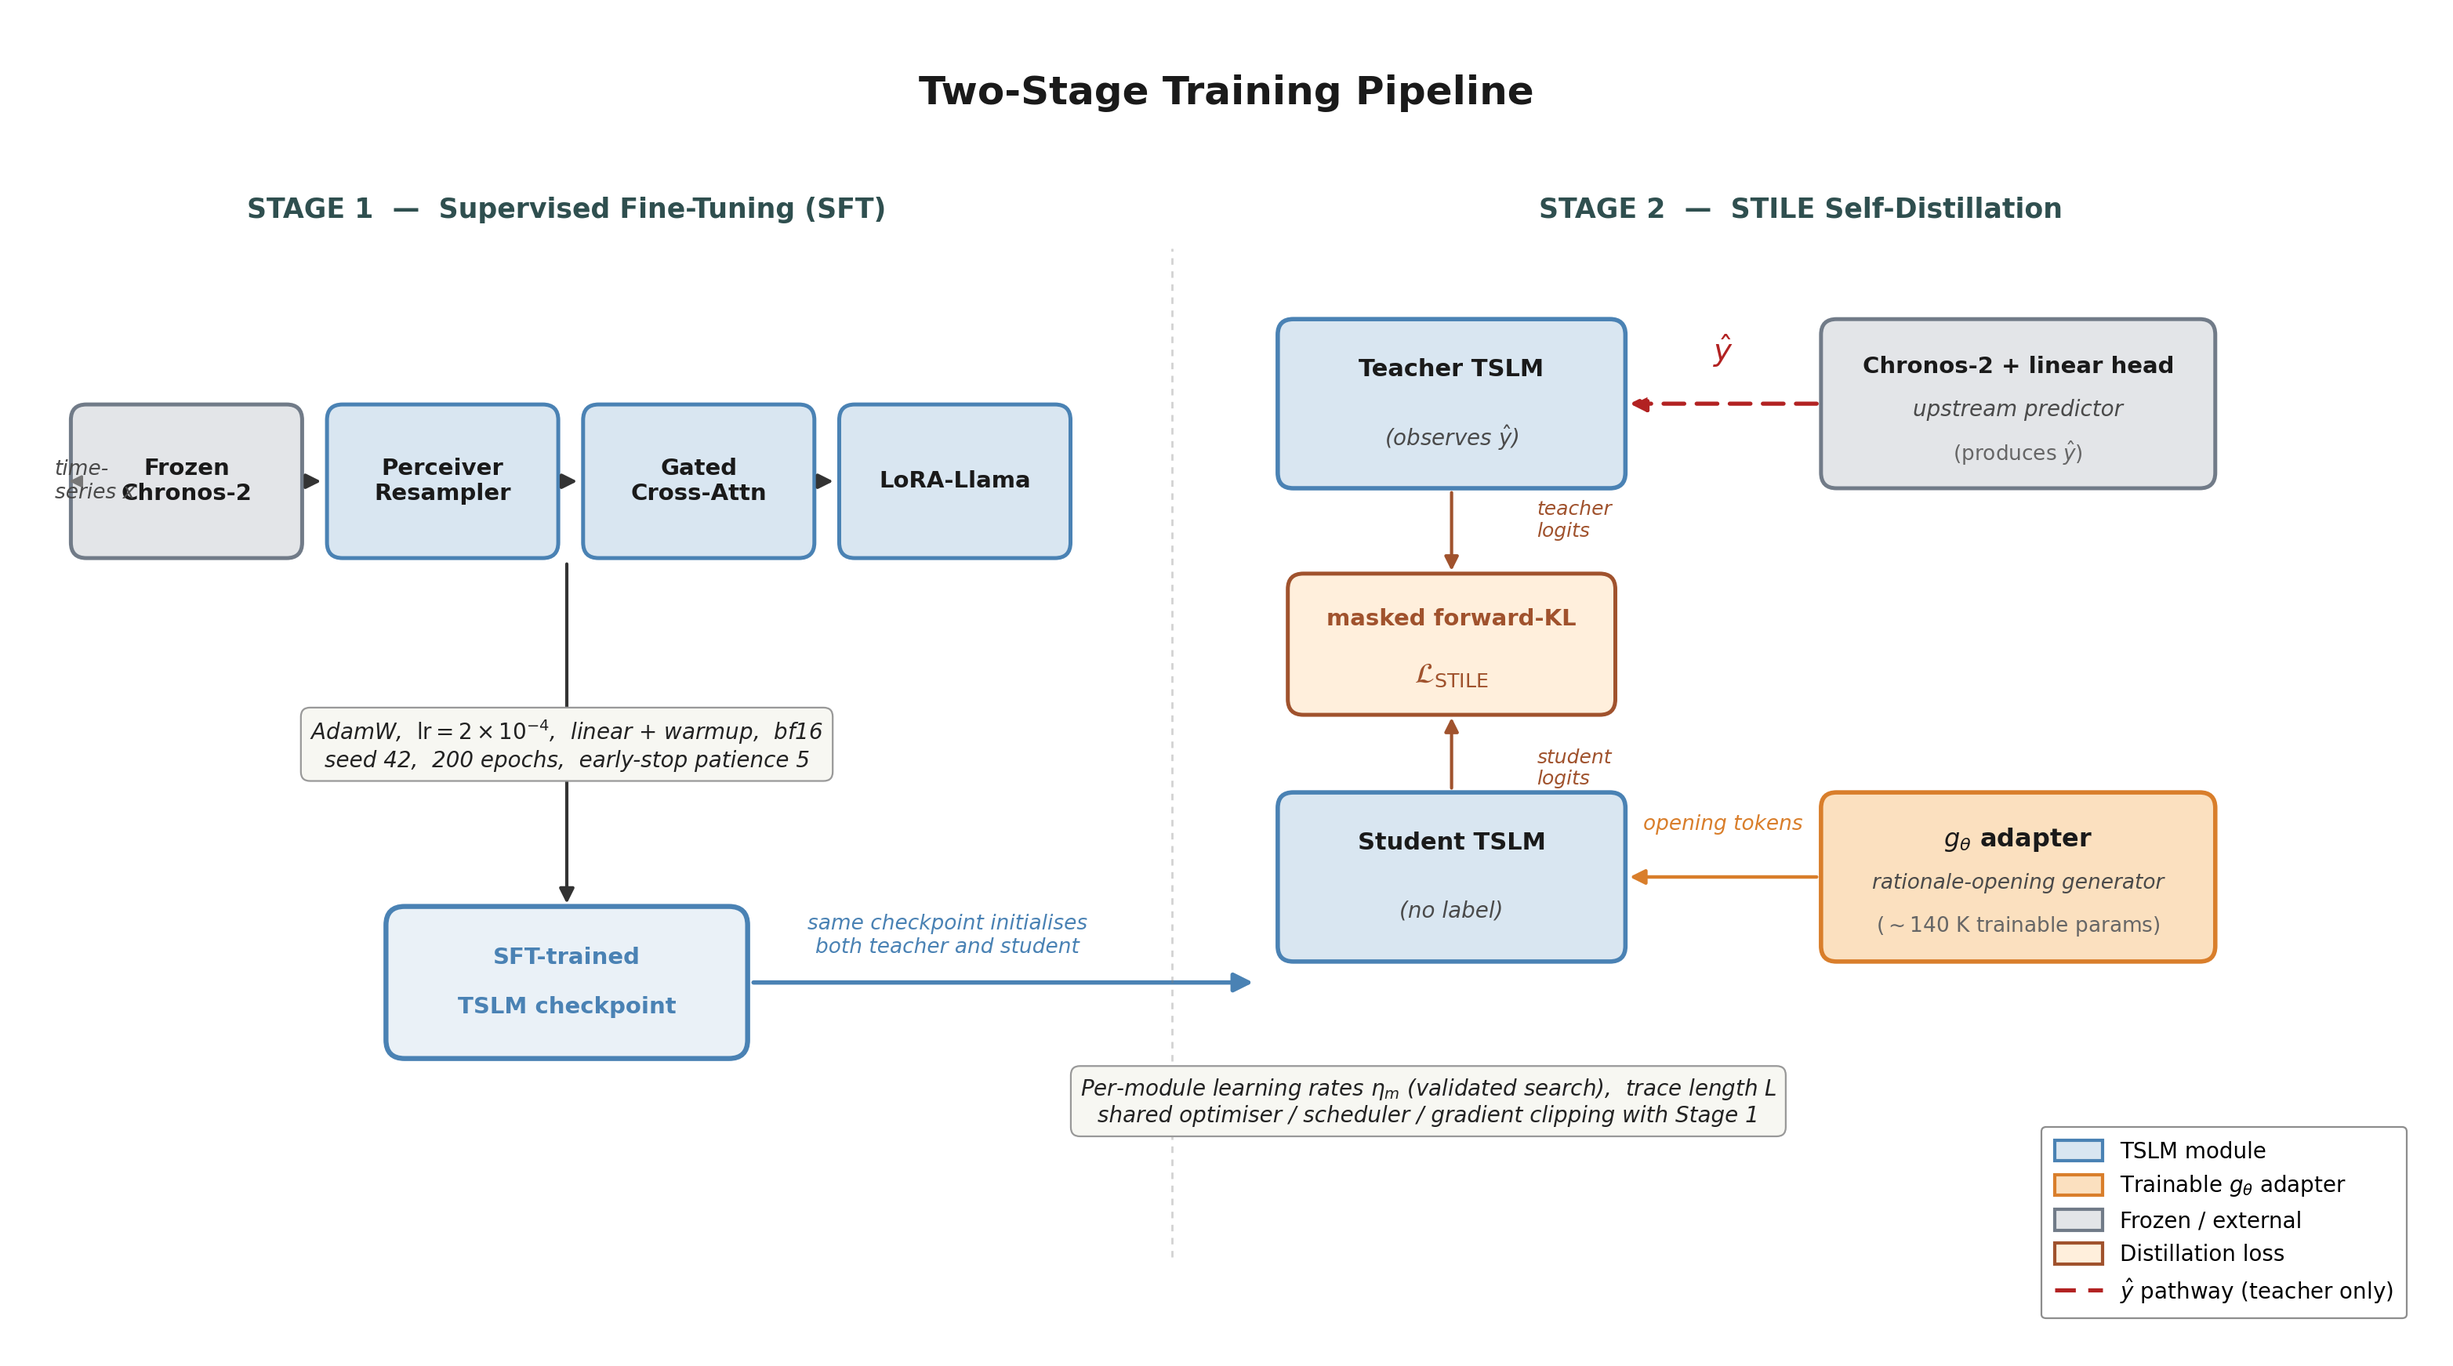
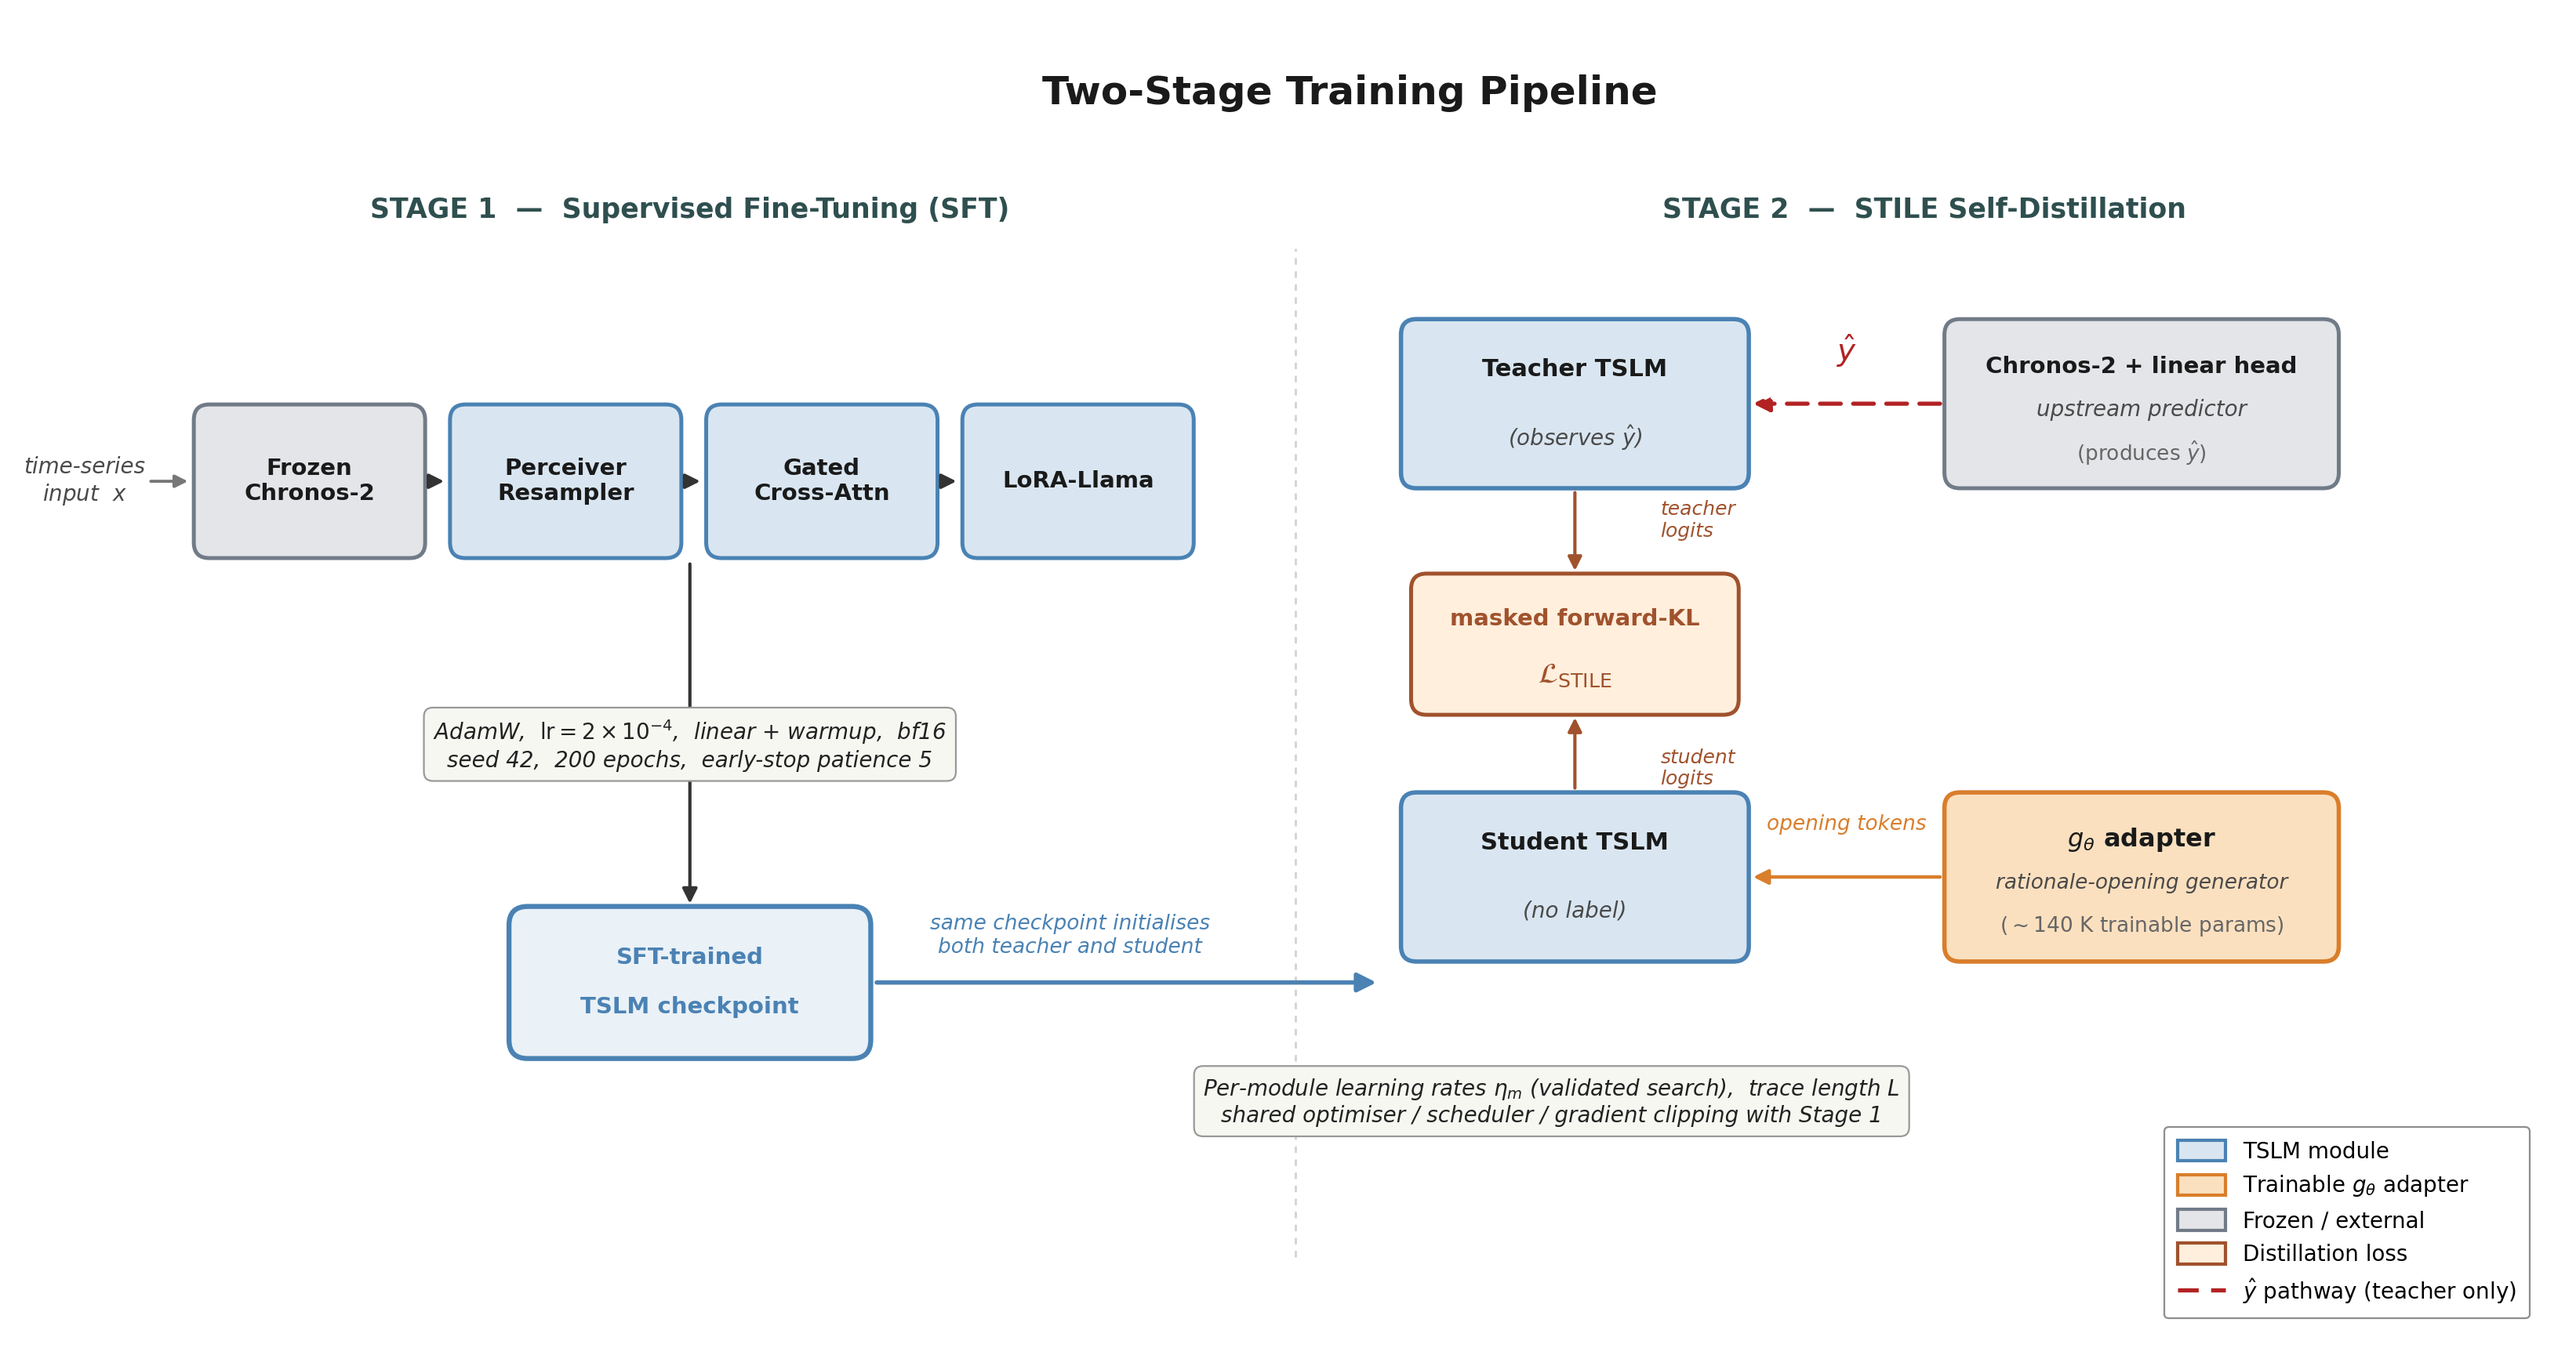
Fix figures after review for STILE: Accurate and Explainable Time-Series Language Models via Self-Distillation

diff --git a/stile-accurate-and-explainable-time-series-language-models-v/fig_003.py b/stile-accurate-and-explainable-time-series-language-models-v/fig_003.py
@@ -16,8 +16,8 @@ from matplotlib.lines import Line2D
 
 
 def main():
-    fig, ax = plt.subplots(figsize=(15.5, 8.5), dpi=200)
-    ax.set_xlim(0, 15.5)
+    fig, ax = plt.subplots(figsize=(16.2, 8.5), dpi=200)
+    ax.set_xlim(-0.7, 15.5)
     ax.set_ylim(0, 8.5)
     ax.set_aspect('equal')
     ax.axis('off')
@@ -79,13 +79,14 @@ def main():
                                      arrowstyle='-|>', mutation_scale=14,
                                      lw=1.5, color='#333'))
 
-    # time-series x input
-    ax.text(0.20, y_s1, 'time-\nseries x',
-            ha='left', va='center', fontsize=9.5, color=MUTED, style='italic')
-    ax.add_patch(FancyArrowPatch((0.32, y_s1),
+    # time-series x input — placed clearly to the left of the first box
+    # with adequate padding so it no longer overlaps the box border.
+    ax.text(-0.40, y_s1, 'time-series\ninput  $x$',
+            ha='center', va='center', fontsize=10, color=MUTED, style='italic')
+    ax.add_patch(FancyArrowPatch((0.00, y_s1),
                                   (s1_modules[0][0] - box_w / 2 - 0.03, y_s1),
-                                  arrowstyle='-|>', mutation_scale=11,
-                                  lw=1.2, color='#777'))
+                                  arrowstyle='-|>', mutation_scale=12,
+                                  lw=1.4, color='#777'))
 
     # stage 1 hyperparameter caption
     cap1 = (r'AdamW,  $\mathrm{lr}=2\times 10^{-4}$,  linear + warmup,  bf16'
